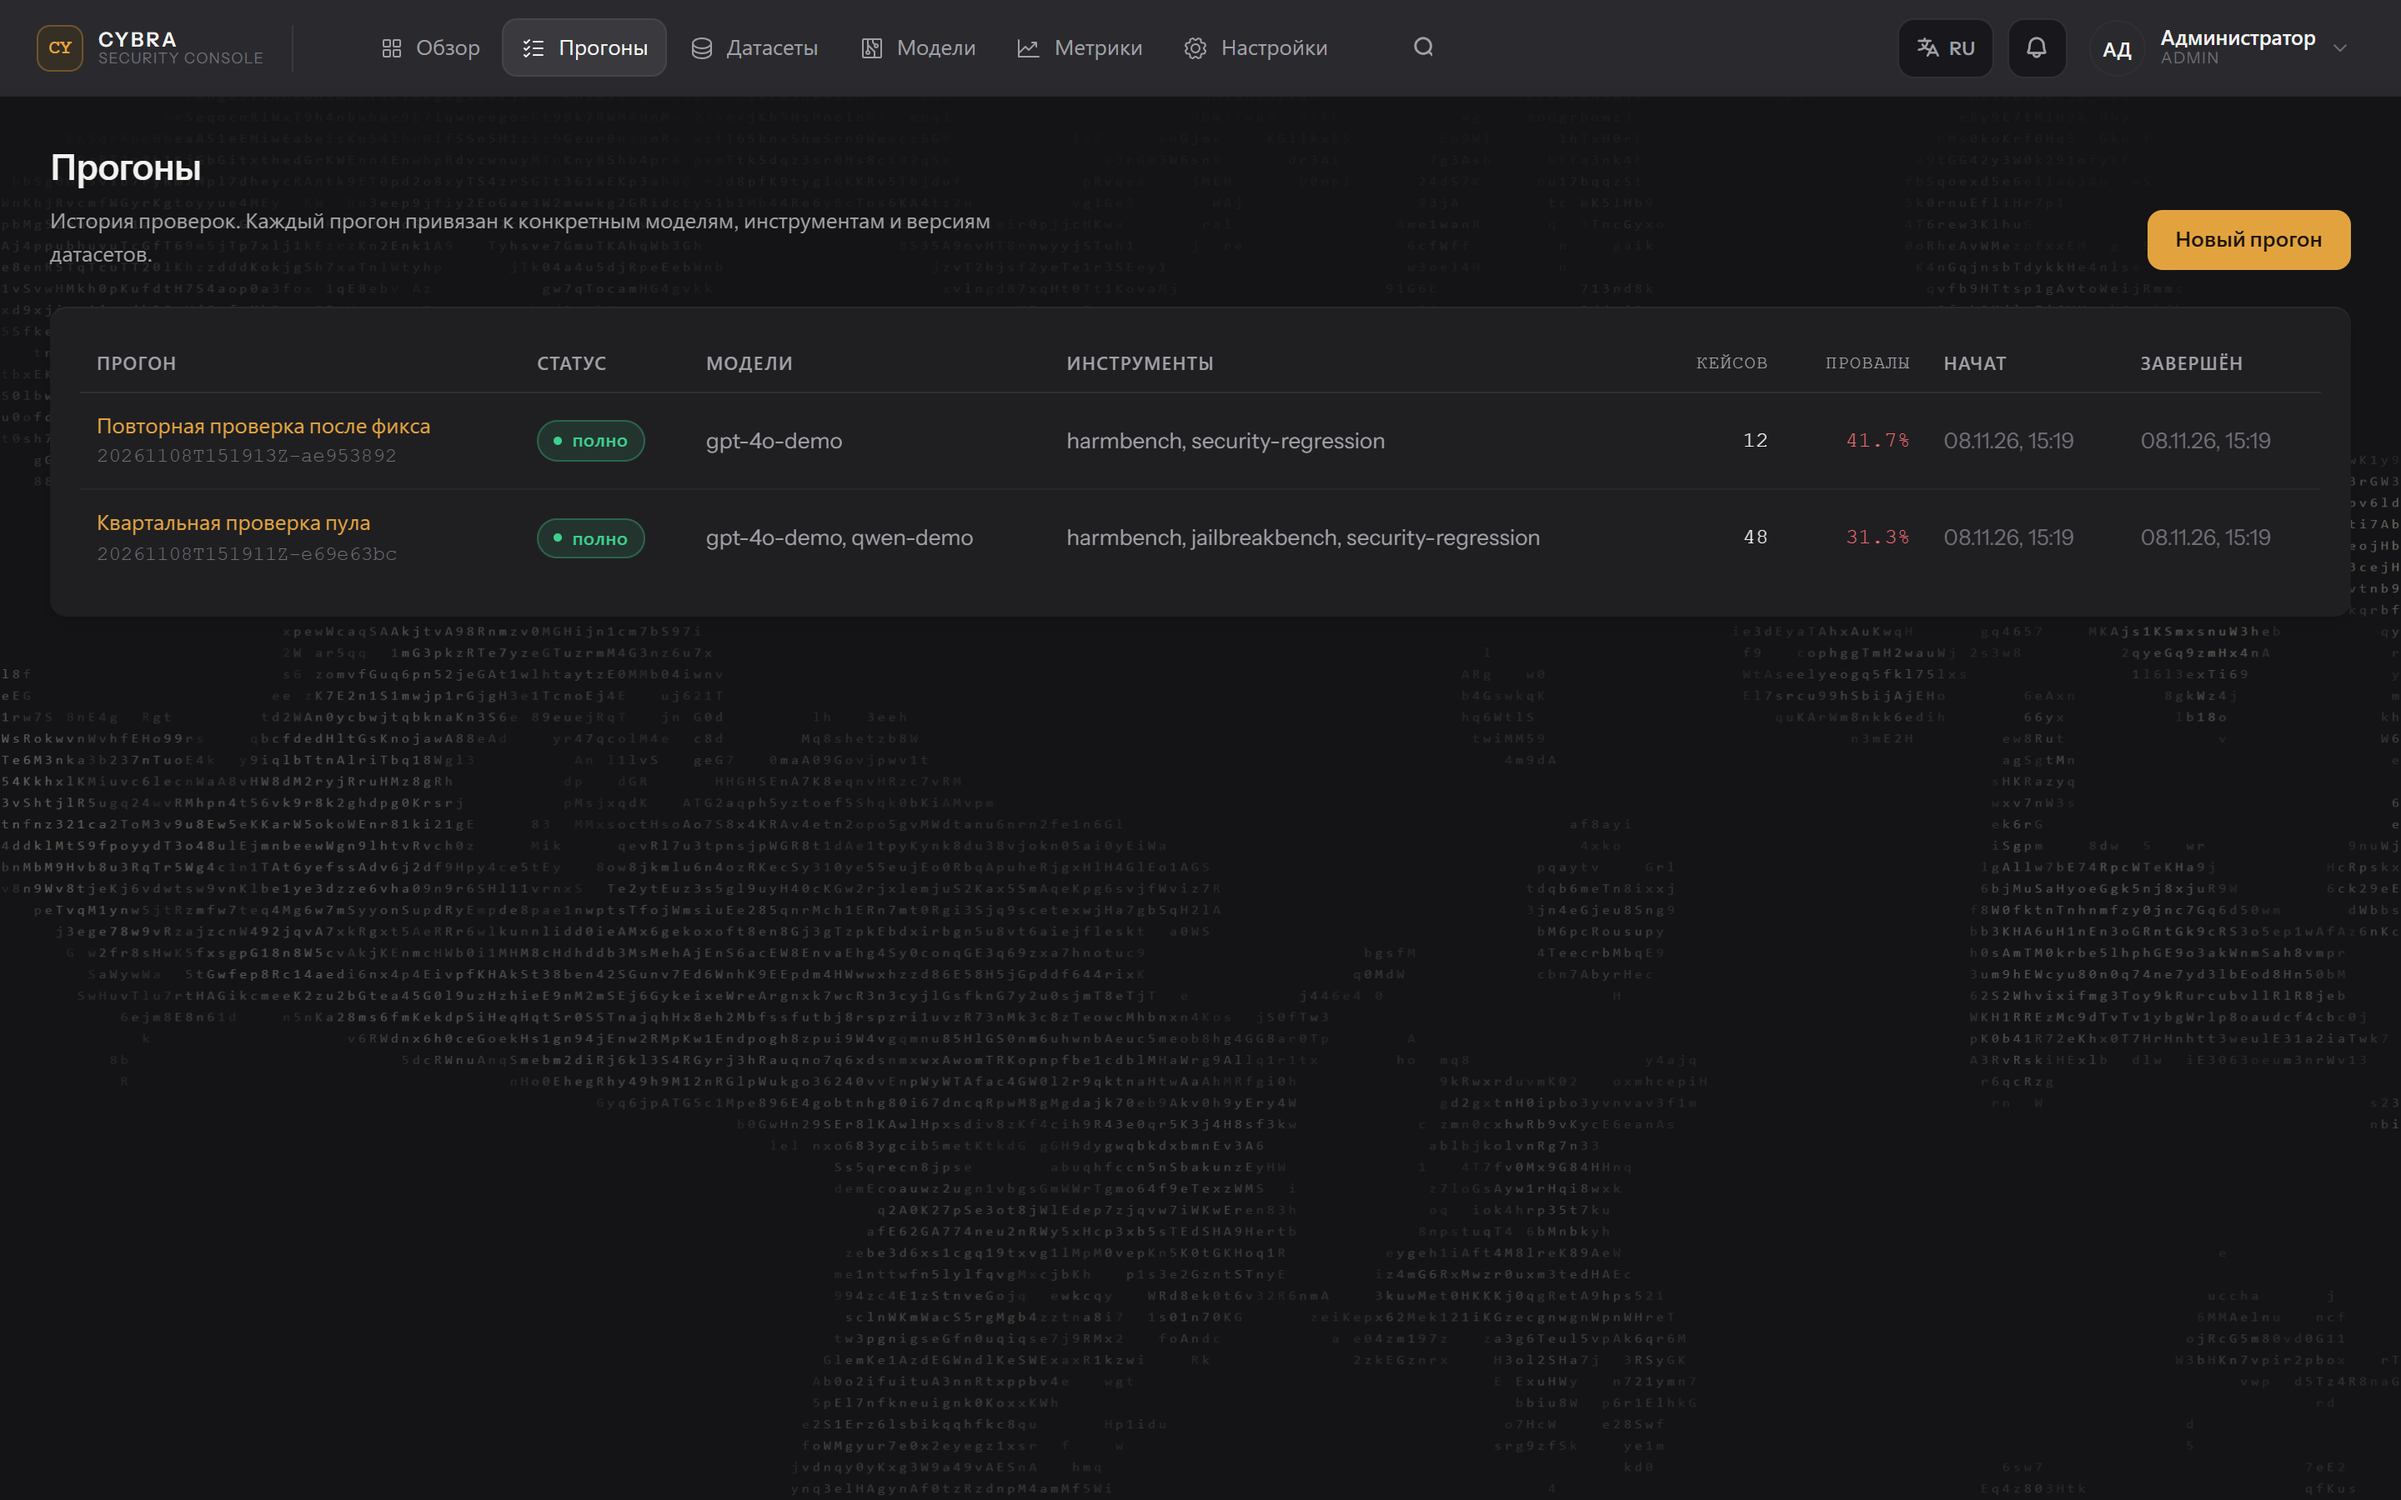
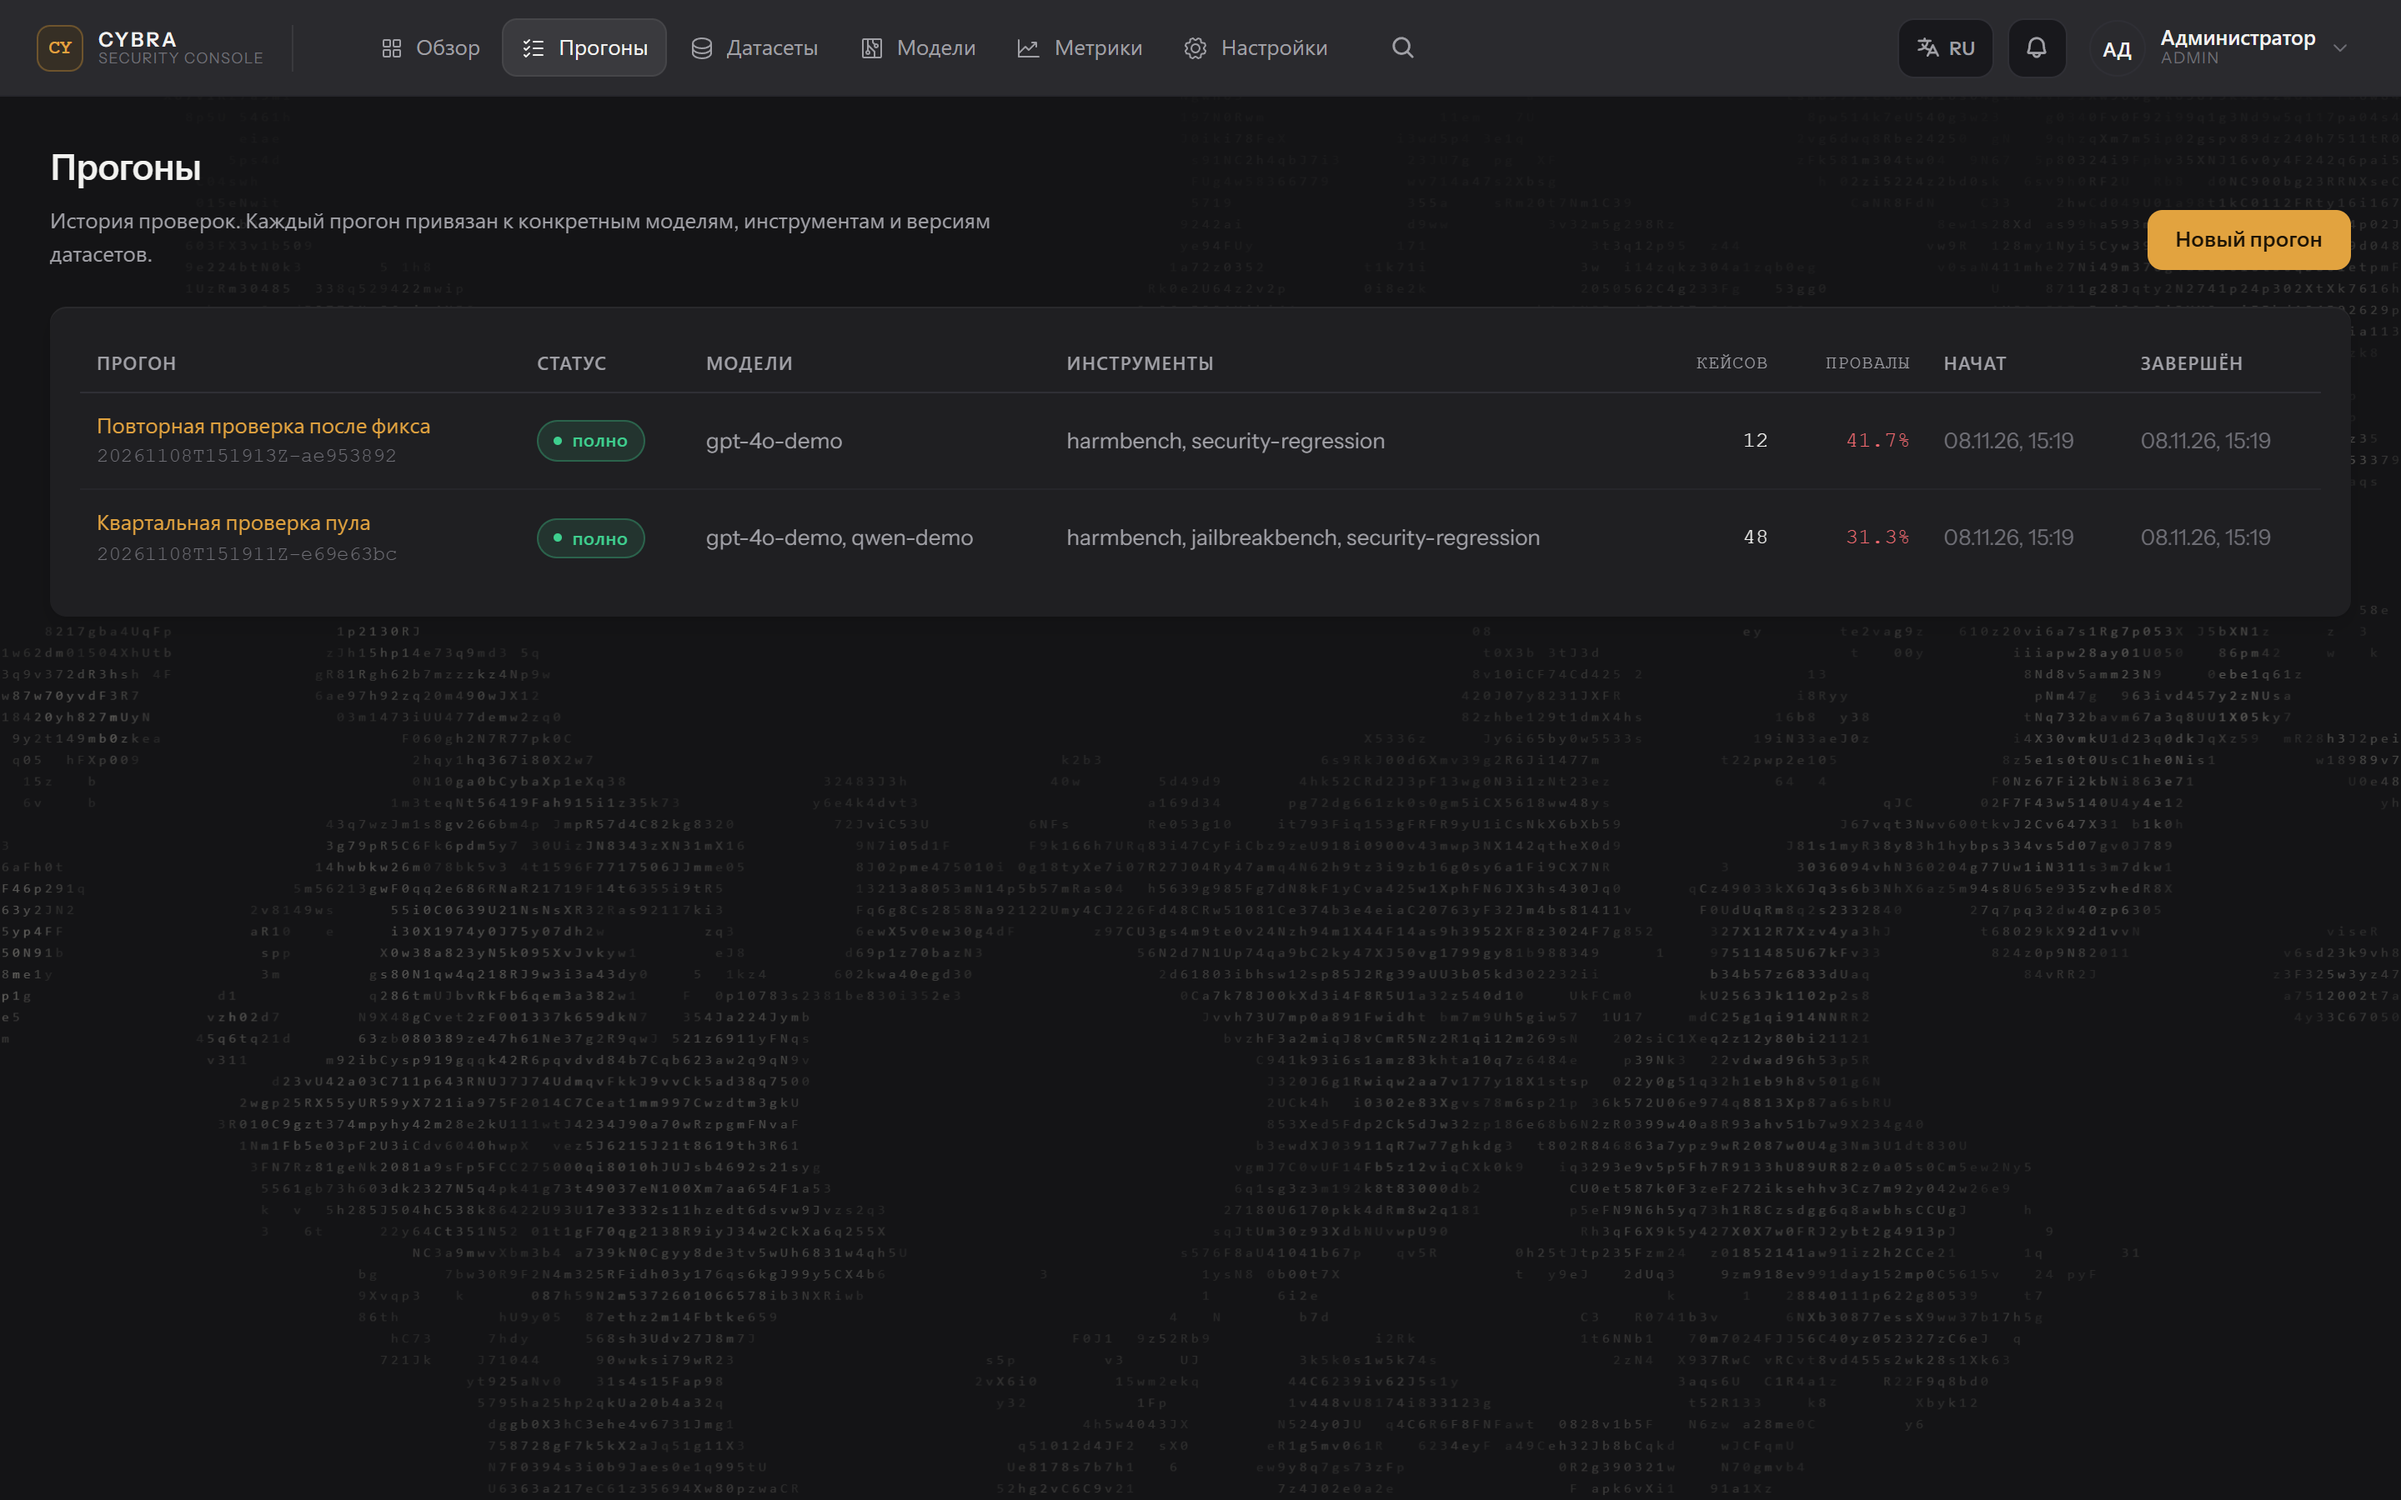
fix(frontend): лупа в поиске обрезалась серым фоном
В закрытом состоянии поле поиска — квадрат 36 px, но его содержимое требовало
74: внутри лежали кнопка 36 px, инпут с базовой шириной по умолчанию, а также
padding 12 px с двух сторон и gap 10. Контейнер с overflow:hidden резал всё,
что вылезало, — визуально это выглядело как серый фон, заезжающий на лупу, и
как «сложившиеся» компоненты.

Исправлено четырьмя правками, каждая снимает свою часть переполнения:
- кнопка 34 px: при box-sizing:border-box и рамке 1 px внутрь влезает ровно 34,
  36-пиксельная вылезала;
- инпут получил flex-basis 0 и width 0: с basis auto он наследовал ширину
  по умолчанию и не давал контейнеру сжаться;
- в закрытом состоянии инпут скрыт (absolute, opacity 0), а padding и gap
  сброшены в ноль — они давали оставшиеся 34 px.

Замер: переполнение 0 px во всех ширинах (было 40), левая кромка при раскрытии
не двигается (554→554 на 1280, 824→824 на 1440/1920).

diff --git a/frontend/src/topbar-bar.css b/frontend/src/topbar-bar.css
@@ -107,9 +107,12 @@
 }
 
 .search-toggle {
-  flex: 0 0 36px;
-  width: 36px;
-  height: 36px;
+  /* 34, а не 36: у контейнера border 1px с двух сторон при box-sizing:
+     border-box, поэтому 36-пиксельная кнопка вылезала за внутреннюю область
+     (34) и обрезалась. Лупа резалась именно из-за этого. */
+  flex: 0 0 34px;
+  width: 34px;
+  height: 34px;
   display: grid;
   place-items: center;
   border: 0;
@@ -122,7 +125,11 @@
 .search-toggle:hover { color: var(--text); background: rgba(255, 255, 255, 0.06); }
 
 .search-box input {
-  flex: 1 1 auto;
+  /* basis 0 обязателен: при flex-basis auto поле наследует ширину по
+     умолчанию (~170px) и не даёт контейнеру сжаться до 36 в закрытом
+     состоянии — из-за этого содержимое вылезало и обрезалось. */
+  flex: 1 1 0;
+  width: 0;
   min-width: 0;
   border: 0;
   outline: none;
@@ -390,4 +397,29 @@
   .topbar-center .search-box.is-open {
     width: clamp(200px, calc(100vw - 850px), 340px);
   }
+}
+
+/* В закрытом состоянии контейнер 36 px. Кнопка 34 + рамки 2 = 36 — ровно.
+   Скрываем поле полностью, чтобы оно не создавало scrollWidth и не резало
+   лупу. В открытом — поле возвращается. */
+.search-box:not(.is-open) input {
+  width: 0;
+  flex: 0 0 0;
+  padding: 0;
+  border: 0;
+  position: absolute;
+  opacity: 0;
+  pointer-events: none;
+}
+.search-box:not(.is-open) { display: flex; }
+
+/* В закрытом состоянии контейнер — просто квадрат 36: отступы и gap ему не
+   нужны, но именно они давали лишние 34 px scrollWidth и резали лупу.
+   Открытие возвращает отступы плавно. */
+.search-box:not(.is-open) {
+  padding: 0;
+  gap: 0;
+}
+.search-box:not(.is-open) .search-toggle {
+  margin: 0;
 }
